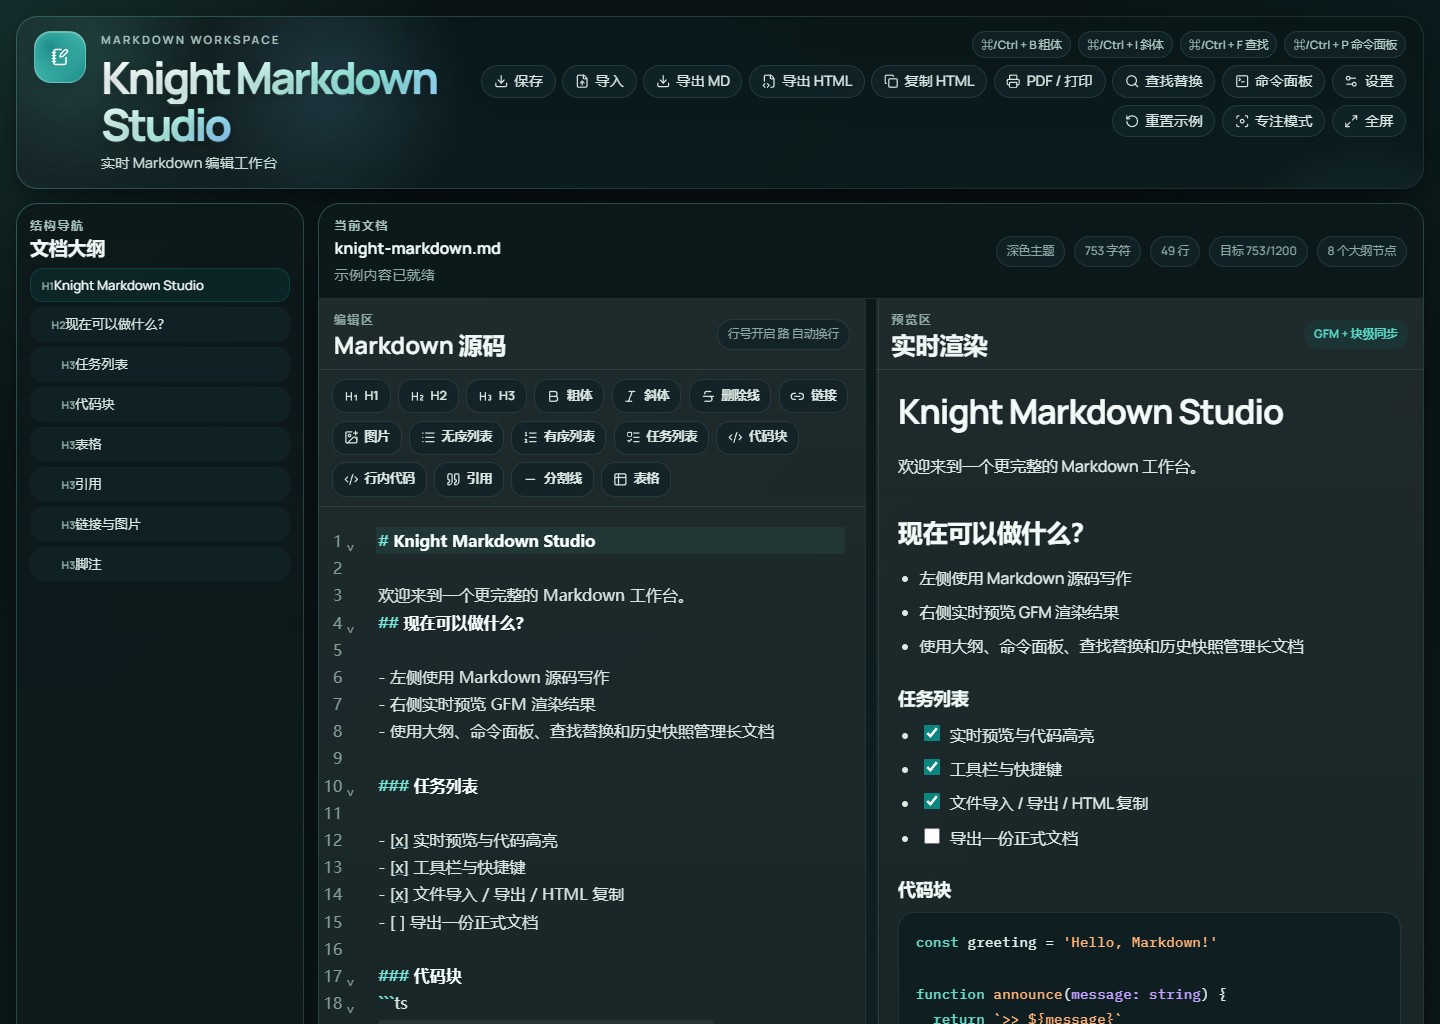
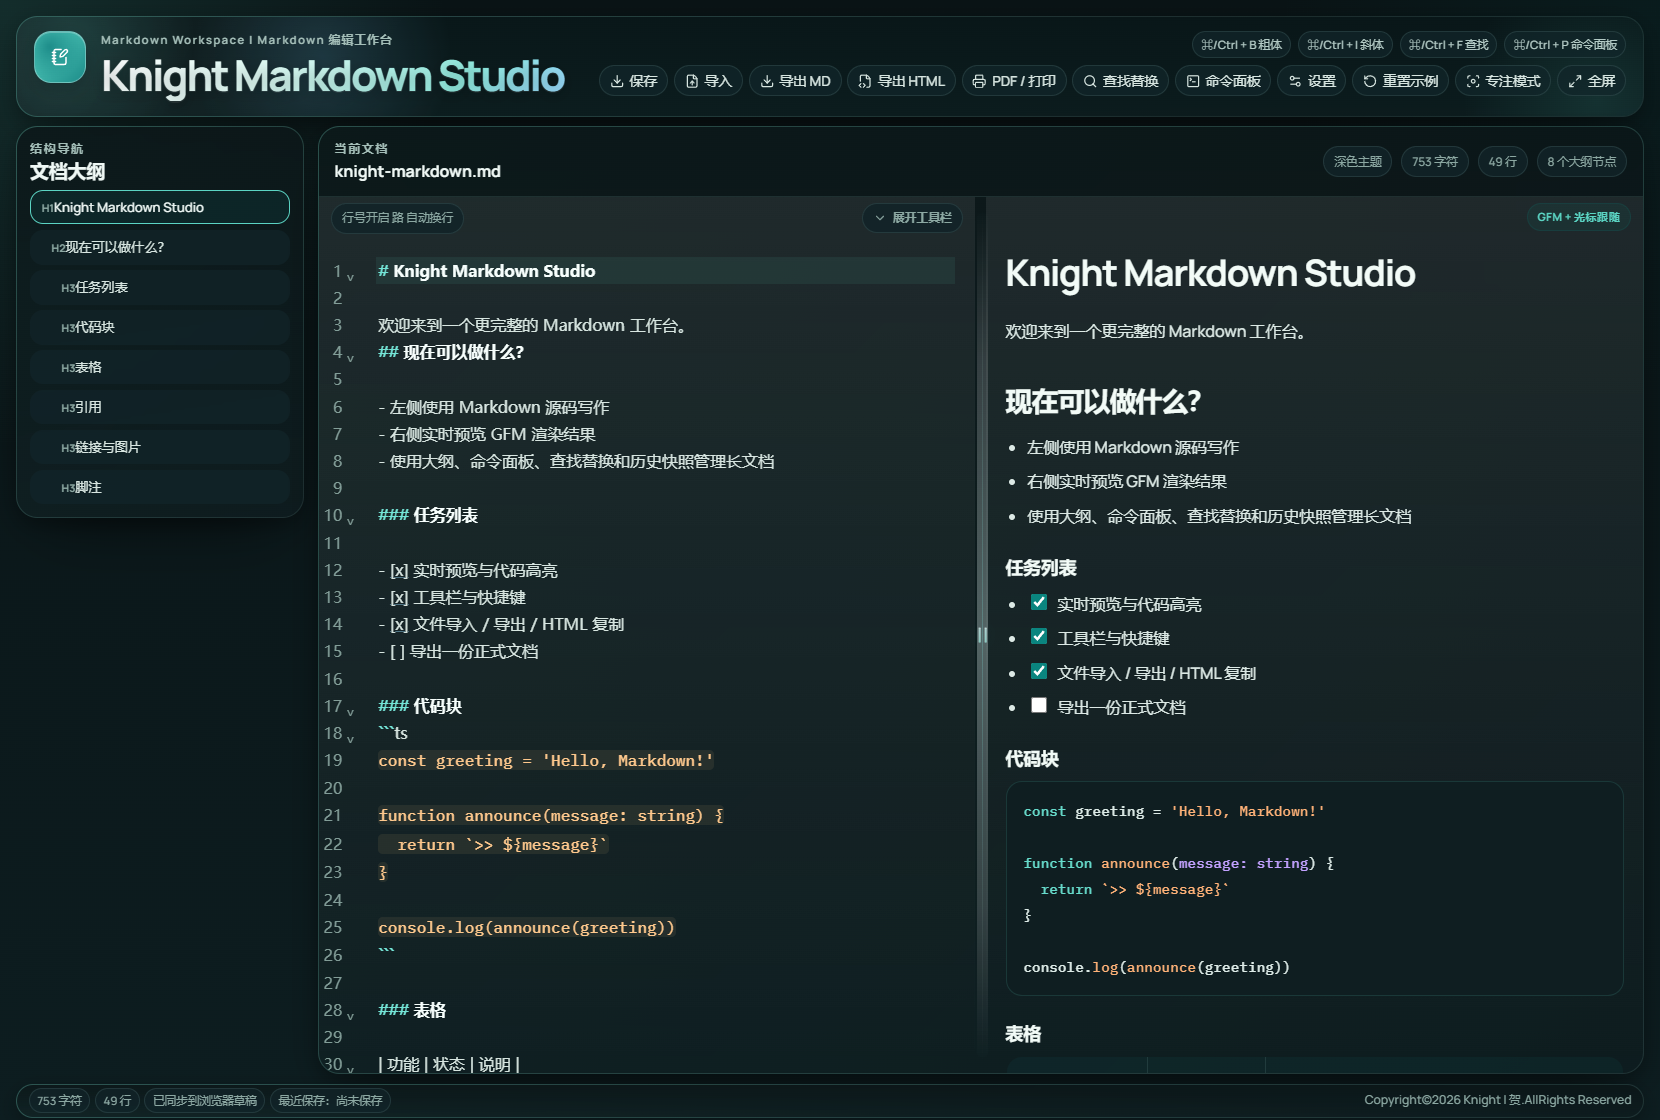
docs: refresh README and product screenshots

diff --git a/README.md b/README.md
@@ -3,7 +3,7 @@
 </div>
 
 <div align="center">
-  <img src="https://readme-typing-svg.demolab.com?font=Manrope&weight=700&size=20&duration=3000&pause=900&color=0F766E&center=true&vCenter=true&width=920&lines=%E5%AE%9E%E6%97%B6+Markdown+%E7%BC%96%E8%BE%91%E5%B7%A5%E4%BD%9C%E5%8F%B0;Write+in+Markdown.+See+it+instantly.;%E5%A4%A7%E7%BA%B2%E3%80%81%E5%8E%86%E5%8F%B2%E5%BF%AB%E7%85%A7%E3%80%81%E5%AF%BC%E5%87%BA%E4%B8%8E%E4%B8%BB%E9%A2%98%E5%88%87%E6%8D%A2%E5%90%8C%E5%B1%8F%E5%8D%8F%E4%BD%9C" alt="Animated product summary" />
+  <img src="https://readme-typing-svg.demolab.com?font=Manrope&weight=700&size=20&duration=3000&pause=900&color=0F766E&center=true&vCenter=true&width=920&lines=%E5%AE%9E%E6%97%B6+Markdown+%E5%B7%A5%E4%BD%9C%E5%8F%B0;%E6%BA%90%E7%A0%81%E7%BC%96%E8%BE%91%E3%80%81%E9%A2%84%E8%A7%88%E3%80%81%E5%A4%A7%E7%BA%B2%E4%B8%8E%E5%AF%BC%E5%87%BA%E5%90%8C%E5%B1%8F%E5%8D%8F%E4%BD%9C;%E5%AE%9E%E6%97%B6%E6%BB%9A%E5%8A%A8%E8%B7%9F%E8%B8%AA%E9%A2%84%E8%A7%88%E5%B7%B2%E6%94%AF%E6%8C%81" alt="Animated product summary" />
 </div>
 
 <p align="center">
@@ -13,72 +13,72 @@
 <p align="center">
   <img src="https://img.shields.io/badge/React-19-111827?logo=react&logoColor=61DAFB" alt="React 19" />
   <img src="https://img.shields.io/badge/TypeScript-5-111827?logo=typescript&logoColor=3178C6" alt="TypeScript 5" />
-  <img src="https://img.shields.io/badge/Vite-7-111827?logo=vite&logoColor=646CFF" alt="Vite 7" />
+  <img src="https://img.shields.io/badge/Vite-8-111827?logo=vite&logoColor=646CFF" alt="Vite 8" />
   <img src="https://img.shields.io/badge/CodeMirror-6-111827?logo=codemirror&logoColor=F97316" alt="CodeMirror 6" />
   <img src="https://img.shields.io/badge/Markdown--it-GFM-111827?logo=markdown&logoColor=ffffff" alt="Markdown-it GFM" />
 </p>
 
 ## 项目简介
 
-Knight Markdown Studio 是一个面向长期写作与技术内容整理的单页面 Markdown 编辑器。
-
-它把源码编辑、实时预览、结构导航、草稿恢复、主题切换和导出交付收拢到同一个工作台里，让 Markdown 不只是“能写”，而是更适合持续写作、知识沉淀和技术表达。
+Knight Markdown Studio 是一个面向持续写作、技术文档整理和 Markdown 交付的单页面工作台。
+它把源码编辑、实时预览、结构导航、历史快照、主题切换和导出交付放进了同一个界面里，让 Markdown 不只是“能写”，而是更适合长期使用。
 
 适合这些场景：
 
-- 技术文档与接口说明
-- 学习笔记与知识库草稿
-- 博客初稿与长文写作
+- 技术文档、API 说明与产品方案
+- 学习笔记、知识库草稿与博客写作
 - 需要一边写源码、一边看排版结果的 Markdown 工作流
 
-## 核心亮点
+## 最近更新
 
-- 双栏工作台：左侧源码编辑，右侧即时预览，桌面端与移动端都有合适布局。
-- 实时预览：基于 GFM 渲染，支持表格、任务列表、图片、引用、脚注和代码块高亮。
-- 长文档友好：支持大纲导航、块级滚动同步、查找替换、历史快照与自动保存。
-- 导出完整：支持导入 `.md`、导出 Markdown、复制 HTML、导出独立 HTML，以及 PDF / 打印。
-- 产品化体验：支持 `light`、`dark`、`system` 主题，提供字体、预览宽度、代码字体等个性化设置。
+- 实时滚动跟踪预览：左侧源码区滚动时，右侧预览会实时跟到对应内容块
+- 光标 / 点击 / 大纲联动：左侧点击、光标定位和大纲跳转都会驱动右侧预览定位
+- 独立双栏滚动：右侧预览跟随左侧，但不会反向拖动编辑区，长文档编辑更稳定
+- 导出 HTML 升级：导出的独立 HTML 现在自带大纲视图、章节跳转和更完整的阅读样式
 
 ## 界面预览
 
 ### 工作台总览
 
-应用采用产品化的双栏工作区布局，品牌头部、结构导航、编辑区与预览区在一个界面中协同工作，适合持续写作与技术内容管理。
+产品首页采用品牌化头部、左侧结构导航、中间源码编辑、右侧渲染预览的工作台布局，适合长文档持续写作与交付。
 
 ![Knight Markdown Studio light workspace](./.github/assets/workspace-light.png)
 
 ### 主题切换
 
-应用支持 `light`、`dark` 和 `system` 三种主题模式，并会记住用户偏好。浅色主题更适合阅读与整理，深色主题更适合专注写作与技术内容浏览。
+应用支持 `light`、`dark` 和 `system` 三种主题模式，并会记住用户偏好。浅色更适合整理与阅读，深色更适合连续写作与技术内容浏览。
 
 | 浅色主题 | 深色主题 |
 | --- | --- |
 | ![Knight Markdown Studio light theme](./.github/assets/workspace-light.png) | ![Knight Markdown Studio dark theme](./.github/assets/workspace-dark.png) |
 
-### 代码块高亮
+### 实时滚动跟踪预览
 
-<div align="center">
-  <img src="https://readme-typing-svg.demolab.com?font=JetBrains+Mono&weight=700&size=18&duration=2600&pause=900&color=22A699&center=true&vCenter=true&width=860&lines=Syntax+highlighting+for+fenced+code+blocks;Readable+code+for+docs%2C+notes%2C+and+API+guides;Inline+code+and+preview+styles+stay+consistent" alt="Code highlighting animation" />
-</div>
+这次更新后，左侧源码区滚动时，右侧预览会持续跟到对应区块。编辑、浏览和定位不再割裂，尤其适合周报、方案和知识库类长文档。
+
+![Knight Markdown Studio scroll follow preview](./.github/assets/scroll-follow-light.png)
+
+### 代码块高亮
 
 代码块高亮不仅是“把代码染色”，更重要的是让技术内容在预览区里保持清晰、稳定、可读：
 
 - 支持 fenced code block 与 inline code 的差异化展示
-- 代码块高亮风格会与当前主题保持一致
+- 代码高亮风格会与当前主题保持一致
 - 更适合技术文档、接口说明、学习笔记和工程博客写作
 
 ![Knight Markdown Studio code highlighting preview](./.github/assets/code-highlight-dark.png)
 
-## 功能概览
+## 核心能力
 
 | 模块 | 能力 |
 | --- | --- |
 | 编辑 | Markdown 工具栏、快捷键、自动换行、行号开关、查找替换 |
-| 导航 | 文档大纲、标题跳转、编辑区与预览区块级同步 |
+| 导航 | 文档大纲、标题跳转、左侧滚动 / 光标 / 点击驱动右侧预览跟踪 |
 | 持久化 | 自动保存、草稿恢复、历史快照、重置示例 |
 | 导出 | Markdown、独立 HTML、复制 HTML、PDF / 打印 |
-| 个性化 | `light` / `dark` / `system`、字体大小、预览宽度、代码字体 |
-| 媒体 | `.md` 拖拽导入、图片 URL、图片文件粘贴与预览 |
+| 个性化 | `light` / `dark` / `system`、字号、预览宽度、代码字体 |
+| 媒体 | `.md` 导入、图片 URL、图片文件粘贴与拖拽插入 |
+| 体验 | 移动端编辑 / 预览 / 分屏三态、命令面板、专注模式、全屏 |
 
 ## 技术栈
 
@@ -105,7 +105,7 @@ npm install
 npm run dev
 ```
 
-默认本地地址通常为：
+Vite 会在本地可用端口启动，常见地址是：
 
 ```text
 http://localhost:5173/
@@ -148,7 +148,7 @@ public/          静态资源
 
 ## 质量保障
 
-当前项目已经覆盖这些基础检查：
+当前项目已覆盖这些基础检查：
 
 - `npm run lint`
 - `npm run test`
